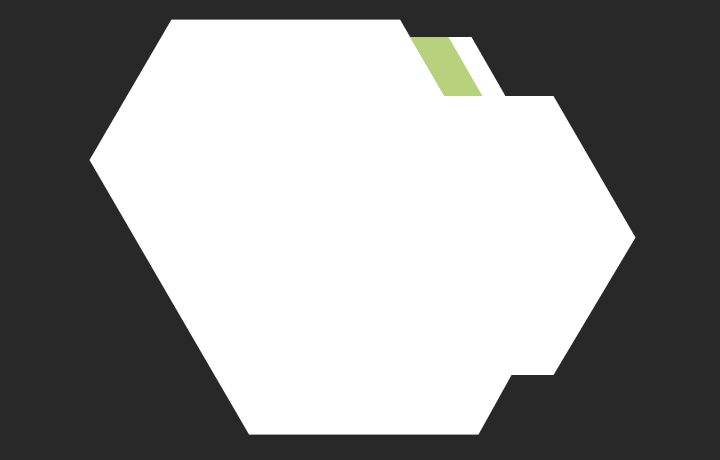
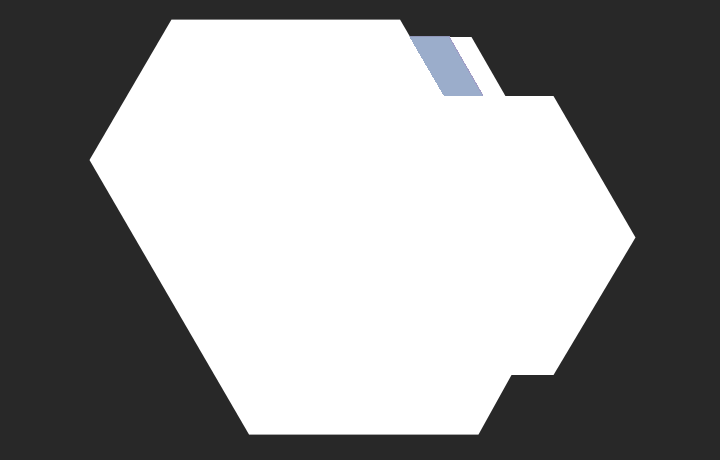
content_image_overlay

Changed region(s): [[0.55, 0.0609, 0.6722, 0.213]]

diff --git a/MainSite/index.html b/MainSite/index.html
@@ -174,9 +174,9 @@
                     
                     <div class="gallery-item">
                         <img src="images/service/1.jpg" alt="gallery 1">
-                        <div class="templatemo_service_frame"><img src="images/templatemo_serviceimg.png" alt="templatemo_frame"></div>
+                        <div class="templatemo_service_frame"><img src="images/outer.png" alt="templatemo_frame"></div>
                         <div class="overlay">
-                            <div class="templatemo_service_frame"><img src="images/templatemo_serviceimg1.png" alt="templatemo_frame"></div>
+                            <div class="templatemo_service_frame"><img src="images/purple_conten5.png" alt="templatemo_frame"></div>
                             <a href="images/service/1.jpg" data-rel="lightbox" class="fa fa-search-plus"></a>
                         </div>
                     
@@ -207,7 +207,7 @@
                         <img src="images/service/2.jpg" alt="gallery 2">
                         <div class="templatemo_service_frame"><img src="images/templatemo_serviceimg.png" alt="templatemo_frame"></div>
                         <div class="overlay">
-                            <div class="templatemo_service_frame"><img src="images/templatemo_serviceimg1.png" alt="templatemo_frame"></div>
+                            <div class="templatemo_service_frame"><img src="images/purple_content4.png" alt="templatemo_frame"></div>
                             <a href="images/service/2.jpg" data-rel="lightbox" class="fa fa-search-plus"></a>
                         </div>
                     </div>
